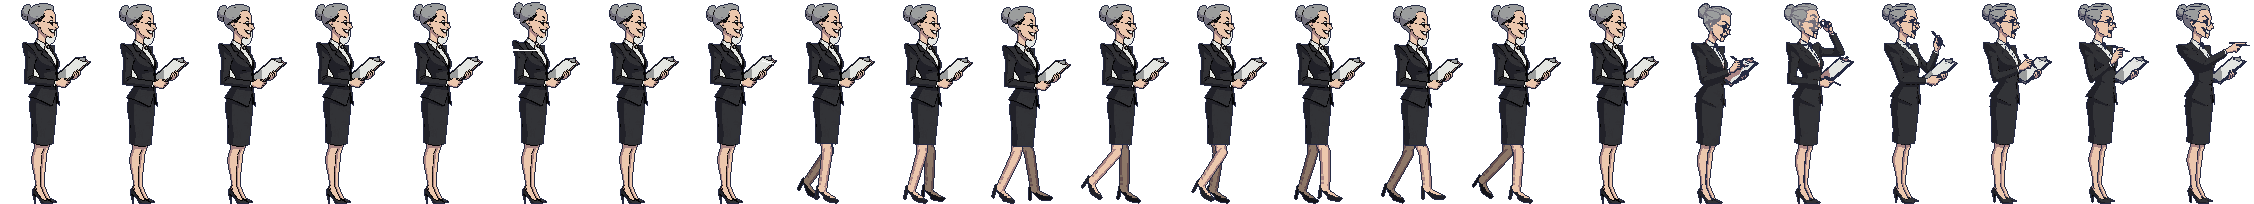
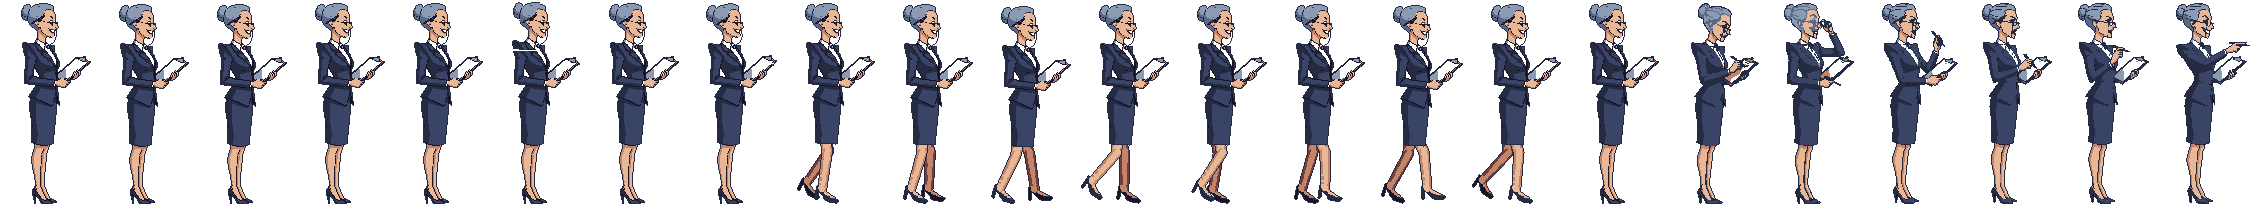
Gesten im Raum geprüft: Versatz von Fächeln, Hämmern und Kauen behoben, Paletten von Moderwort, Zeldina und Maklerin
Kontaktbögen je Raum (tests/gesten_ansehen.gd) zeigten drei Bewegungen, deren Körper neben dem
Fußpunkt des Stands lag; tools/sheet_verschieben.py rückt sie zurecht. Der Arbeitszyklus des
Schmieds bleibt bewusst draußen (Laufrichtung, Dampf, fehlender Blasebalg). Umfärbe-Tabellen aus
dem Aseprite-Durchgang angewendet (tools/palette_figuren/umfaerben.py).

Claude-Session: https://claude.ai/code/session_01GrSQs1mRHYVRHHyw76L7au

diff --git a/tools/sheet_verschieben.py b/tools/sheet_verschieben.py
@@ -1,0 +1,44 @@
+#!/usr/bin/env python3
+"""Verschiebt alle Bilder einer Bewegung im Sprite-Sheet einer Figur um dx, dy Pixel innerhalb ihrer Zelle.
+
+Für Bewegungen, deren Körper nicht auf dem Fußpunkt des Stands liegt (die Figur springt beim Wechsel
+zwischen Stand und Bewegung zur Seite). Was über den Zellrand geschoben würde, fällt weg; das Werkzeug
+bricht ab, wenn dabei sichtbare Pixel verloren gingen.
+
+Aufruf: python3 tools/sheet_verschieben.py FIGUR BEWEGUNG DX [DY]
+"""
+import json
+import sys
+from pathlib import Path
+
+from PIL import Image
+
+SPIEL = Path(__file__).resolve().parent.parent / "game"
+
+
+def main():
+    fid, anim, dx = sys.argv[1], sys.argv[2], int(sys.argv[3])
+    dy = int(sys.argv[4]) if len(sys.argv) > 4 else 0
+    d = json.loads((SPIEL / "daten" / "figuren" / f"{fid}.json").read_text())
+    w, h = d["bild"]
+    gesamt = max(a["von"] + a["bilder"] for a in d["animationen"].values())
+    spalten = d.get("spalten", gesamt)
+    pfad = SPIEL / "grafik" / "figuren" / f"{fid}.png"
+    im = Image.open(pfad).convert("RGBA")
+    a = d["animationen"][anim]
+    for i in range(a["bilder"]):
+        k = a["von"] + i
+        x, y = (k % spalten) * w, (k // spalten) * h
+        zelle = im.crop((x, y, x + w, y + h))
+        bb = zelle.getbbox()
+        if bb and (bb[0] + dx < 0 or bb[2] + dx > w or bb[1] + dy < 0 or bb[3] + dy > h):
+            sys.exit(f"Bild {i}: sichtbare Pixel fielen aus der Zelle ({bb}, dx={dx}, dy={dy})")
+        neu = Image.new("RGBA", (w, h), (0, 0, 0, 0))
+        neu.paste(zelle, (dx, dy))
+        im.paste(neu, (x, y))
+    im.save(pfad)
+    print(f"{fid} {anim}: {a['bilder']} Bilder um ({dx}, {dy}) verschoben")
+
+
+if __name__ == "__main__":
+    main()

diff --git a/tools/palette_figuren/umfaerben.py b/tools/palette_figuren/umfaerben.py
@@ -1,0 +1,42 @@
+#!/usr/bin/env python3
+"""Umfärben ohne Aseprite (gleiches Ergebnis wie umfaerben.lua): jede Pixelfarbe, die in der Tabelle
+<figur>.csv steht, wird durch die neue ersetzt (exakter RGB-Vergleich, Alpha bleibt).
+
+Aufruf: python3 tools/palette_figuren/umfaerben.py moderwort zeldina maklerin
+"""
+import csv
+import sys
+from pathlib import Path
+
+from PIL import Image
+
+HIER = Path(__file__).resolve().parent
+SPIEL = HIER.parent.parent / "game"
+
+
+def farbe(text):
+    t = text.strip().lstrip("#")
+    return tuple(int(t[i:i + 2], 16) for i in (0, 2, 4))
+
+
+def main():
+    for fid in sys.argv[1:]:
+        with open(HIER / f"{fid}.csv", newline="", encoding="utf-8") as f:
+            zeilen = [z for z in f if not z.startswith("# ")]   # Kommentarzeilen
+            karte = {farbe(z["alt"]): farbe(z["neu"]) for z in csv.DictReader(zeilen, delimiter=";")}
+        pfad = SPIEL / "grafik" / "figuren" / f"{fid}.png"
+        im = Image.open(pfad).convert("RGBA")
+        px = im.load()
+        n = 0
+        for y in range(im.size[1]):
+            for x in range(im.size[0]):
+                r, g, b, a = px[x, y]
+                if a and (r, g, b) in karte:
+                    px[x, y] = karte[(r, g, b)] + (a,)
+                    n += 1
+        im.save(pfad)
+        print(f"{fid}: {len(karte)} Farben, {n} Pixel umgefärbt")
+
+
+if __name__ == "__main__":
+    main()
